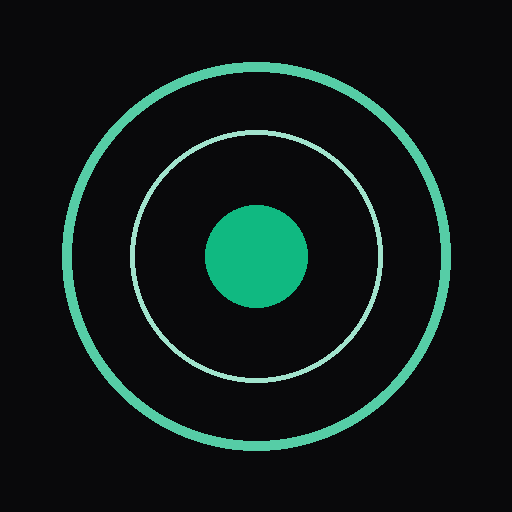
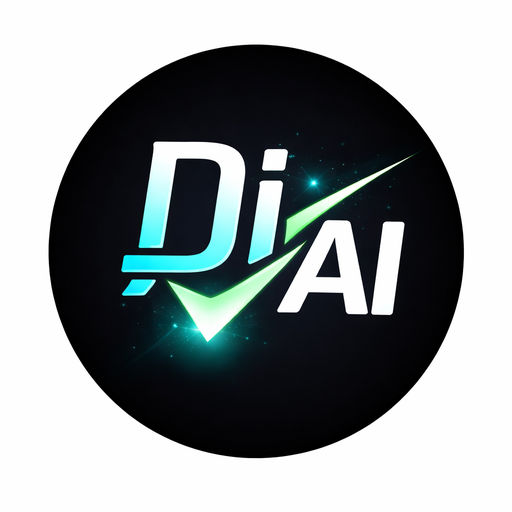
Add files via upload

diff --git a/sw.js b/sw.js
@@ -1,46 +1,44 @@
-const CACHE_NAME = 'disciplineai-v1';
-const ASSETS = [
-  '/',
-  '/index.html',
-  '/manifest.json',
-  '/icon-192.png',
-  '/icon-512.png'
-];
+const CACHE_NAME = 'disciplineai-v2';
+const ASSETS = ['/', '/index.html', '/manifest.json', '/icon-192.png', '/icon-512.png'];
 
-// Installation — mise en cache des assets
 self.addEventListener('install', e => {
-  e.waitUntil(
-    caches.open(CACHE_NAME).then(cache => cache.addAll(ASSETS))
-  );
+  e.waitUntil(caches.open(CACHE_NAME).then(cache => cache.addAll(ASSETS)));
   self.skipWaiting();
 });
 
-// Activation — nettoyage des anciens caches
 self.addEventListener('activate', e => {
-  e.waitUntil(
-    caches.keys().then(keys =>
-      Promise.all(keys.filter(k => k !== CACHE_NAME).map(k => caches.delete(k)))
-    )
-  );
+  e.waitUntil(caches.keys().then(keys => Promise.all(keys.filter(k => k !== CACHE_NAME).map(k => caches.delete(k)))));
   self.clients.claim();
 });
 
-// Fetch — réseau d'abord, cache en fallback
 self.addEventListener('fetch', e => {
-  // Ne pas intercepter les requêtes vers le backend Railway
-  if (e.request.url.includes('railway.app') || e.request.url.includes('anthropic.com')) {
-    return;
-  }
+  if (e.request.url.includes('railway.app') || e.request.url.includes('anthropic.com')) return;
   e.respondWith(
-    fetch(e.request)
-      .then(res => {
-        // Met à jour le cache avec la nouvelle réponse
-        if (res && res.status === 200 && e.request.method === 'GET') {
-          const resClone = res.clone();
-          caches.open(CACHE_NAME).then(cache => cache.put(e.request, resClone));
-        }
-        return res;
-      })
-      .catch(() => caches.match(e.request))
+    fetch(e.request).then(res => {
+      if (res && res.status === 200 && e.request.method === 'GET') {
+        caches.open(CACHE_NAME).then(cache => cache.put(e.request, res.clone()));
+      }
+      return res;
+    }).catch(() => caches.match(e.request))
   );
+});
+
+self.addEventListener('push', e => {
+  const data = e.data ? e.data.json() : {};
+  e.waitUntil(self.registration.showNotification(data.title || 'DisciplineAI', {
+    body: data.body || 'Nouvelle alerte.',
+    icon: '/icon-192.png',
+    badge: '/icon-192.png',
+    vibrate: [200, 100, 200],
+    tag: data.tag || 'disciplineai',
+    renotify: true
+  }));
+});
+
+self.addEventListener('notificationclick', e => {
+  e.notification.close();
+  e.waitUntil(clients.matchAll({type:'window',includeUncontrolled:true}).then(list => {
+    for (const c of list) { if ('focus' in c) return c.focus(); }
+    if (clients.openWindow) return clients.openWindow('/');
+  }));
 });